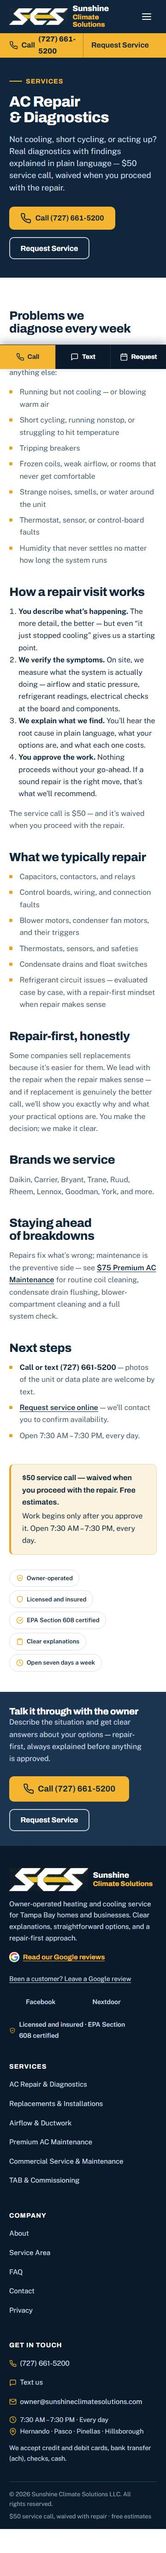
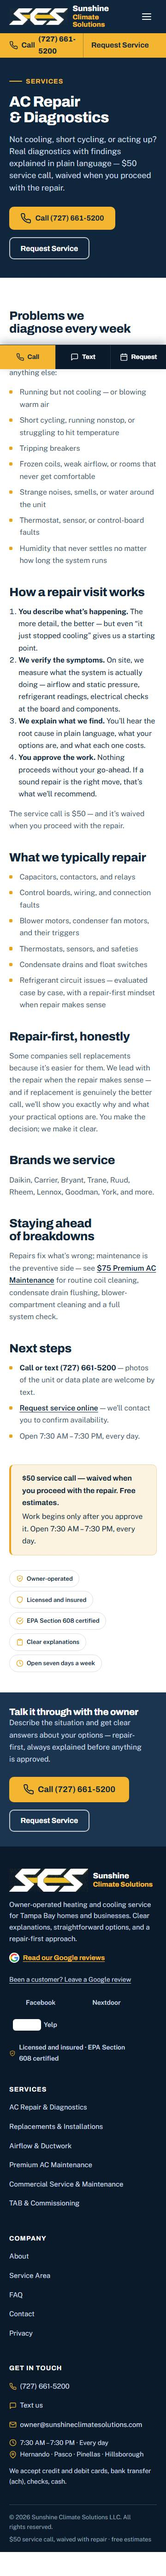
Add Yelp profile, finalize social links, replace unverified Google lockup with official G

Changed region(s): [[0.0, 0.0, 1.0, 0.9944], [0.7333, 0.0621, 0.825, 0.0932], [0.8556, 0.0, 0.8861, 0.0311]]

diff --git a/src/styles/global.css b/src/styles/global.css
@@ -1417,18 +1417,36 @@ body.nav-open {
   flex: none;
 }
 
-/* Owner-supplied social brand logos — height-balanced, unmodified. */
+/* Owner-supplied social brand logos — height-balanced, unmodified.
+   The Yelp wordmark is black; on dark surfaces it gets a light tile so its
+   colors stay exactly as supplied. */
 .social-logo {
   flex: none;
   height: 1.35rem;
   width: auto;
 }
 
-/* Supplied Google Reviews lockup (official brand colors, unmodified) —
-   shown above the prominent CTA on /leave-review/. */
-.google-reviews-badge {
-  width: min(11rem, 60vw);
-  height: auto;
+.social-logo--tile-on-dark {
+  height: 1.6rem;
+  padding: 3px 6px;
+  box-sizing: border-box;
+}
+
+.on-dark .social-logo--tile-on-dark {
+  background: #fff;
+  border-radius: 6px;
+}
+
+/* Official Google "G" mark (Google-hosted asset, unmodified) shown above the
+   prominent review CTA on /leave-review/ — a compliant alternative to the
+   unverified supplied lockup. */
+.google-cta-mark {
+  width: 3rem;
+  height: 3rem;
+  background: #fff;
+  border-radius: 50%;
+  padding: 7px;
+  box-sizing: border-box;
 }
 
 .on-dark .social-links a {

diff --git a/src/config/business.ts b/src/config/business.ts
@@ -52,9 +52,12 @@ export const business = {
   // Verified social profiles (owner-confirmed URLs). Rendered by
   // SocialLinks.astro (footer, contact, leave-review) and included in the
   // HVACBusiness sameAs structured data — never hard-code these elsewhere.
+  // Yelp is a neutral business-directory link only: never solicit Yelp
+  // reviews and never add Yelp review-request CTAs.
   social: {
     facebook: 'https://www.facebook.com/profile.php?id=61594915980759',
     nextdoor: 'https://nextdoor.com/page/sunshine-climate-solutions/',
+    yelp: 'https://www.yelp.com/biz/sunshine-climate-solutions-brooksville',
   },
 
   serviceArea: {
